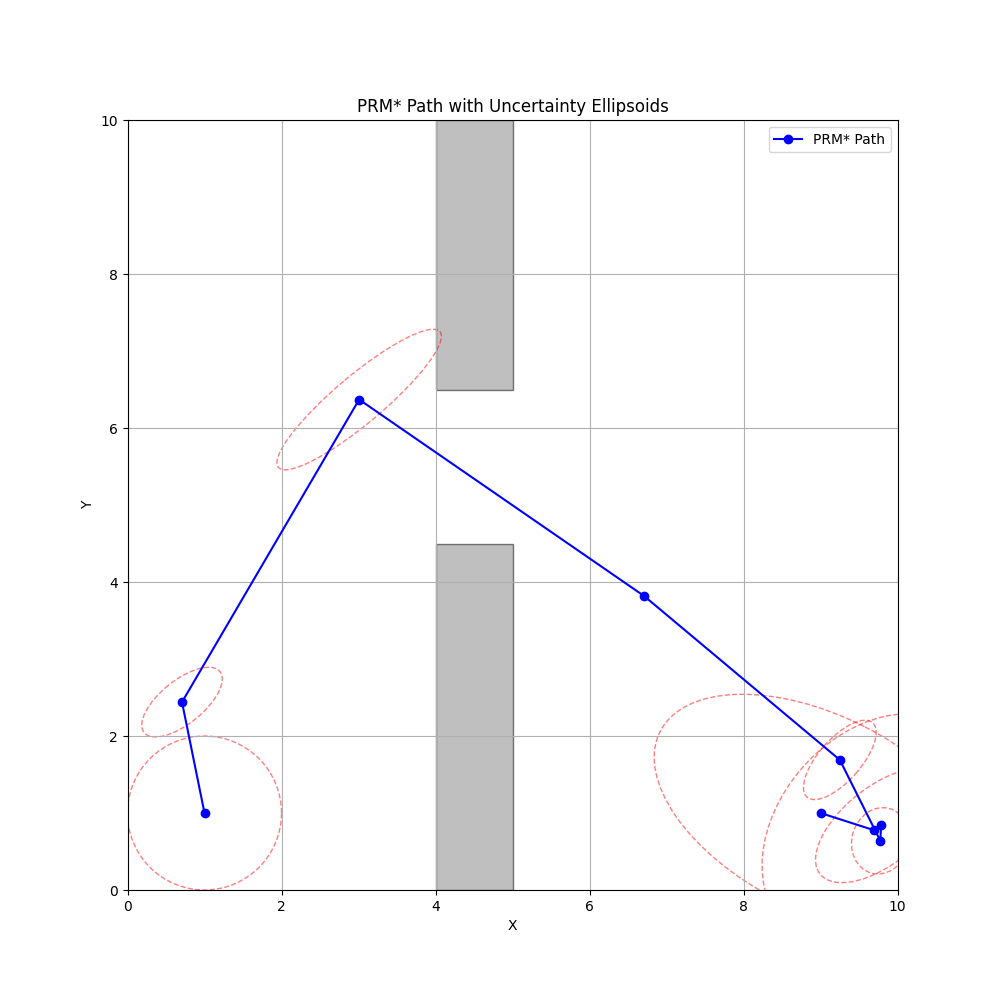
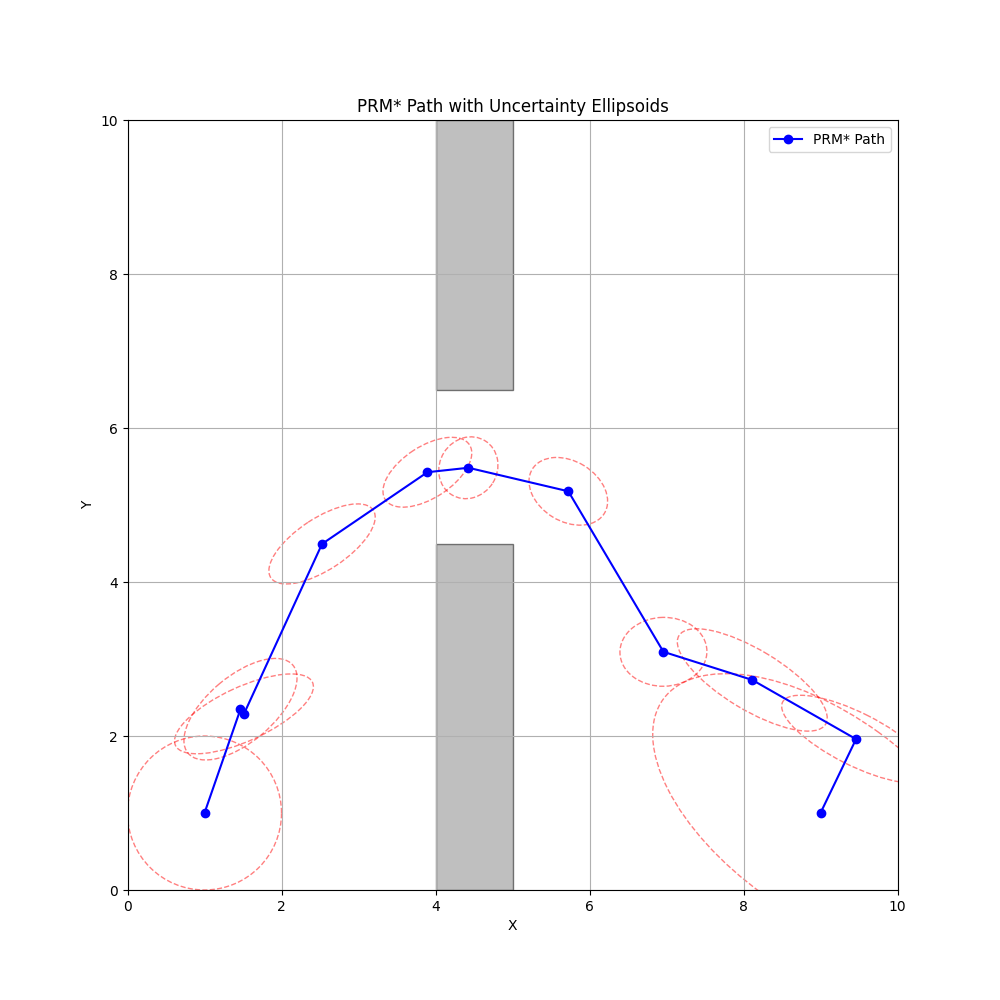
update

diff --git a/ri_prm_star.cpp b/ri_prm_star.cpp
@@ -966,7 +966,7 @@ int main()
 
     // Attempt to solve the problem using a maximum number of roadmap milestones
     // (nodes) instead of a fixed wall-clock time limit.
-    const unsigned int max_nodes = 2000;
+    const unsigned int max_nodes = 20000;
     const unsigned int progress_interval = 1;
     unsigned int last_reported_nodes = 0;
     ob::PlannerTerminationCondition terminationCondition(
